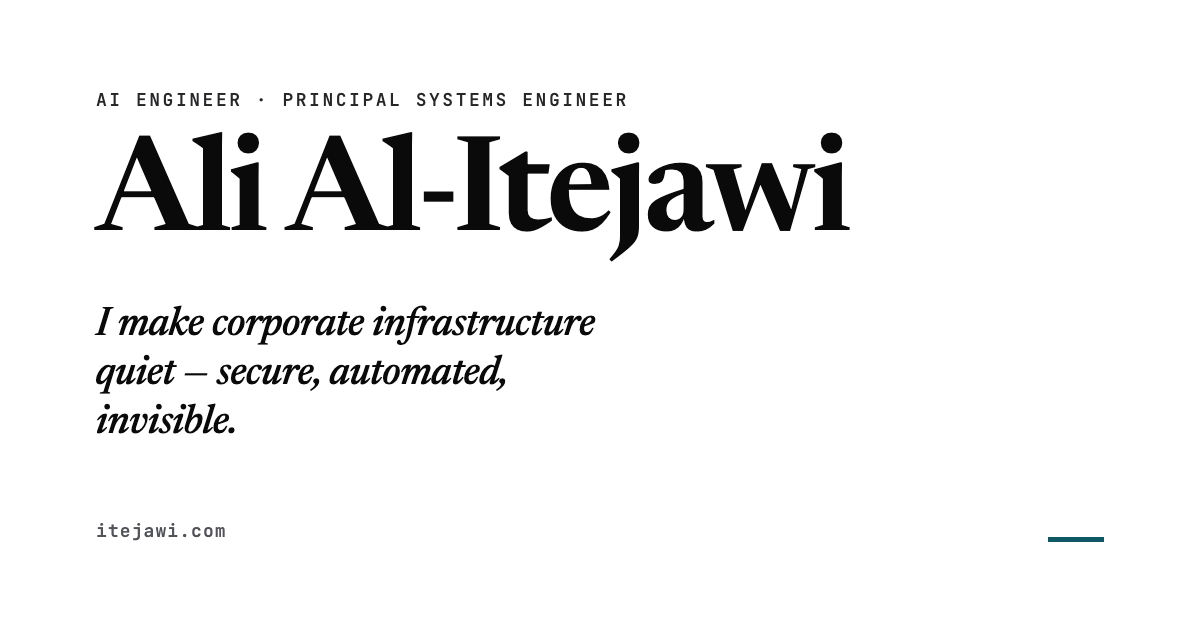
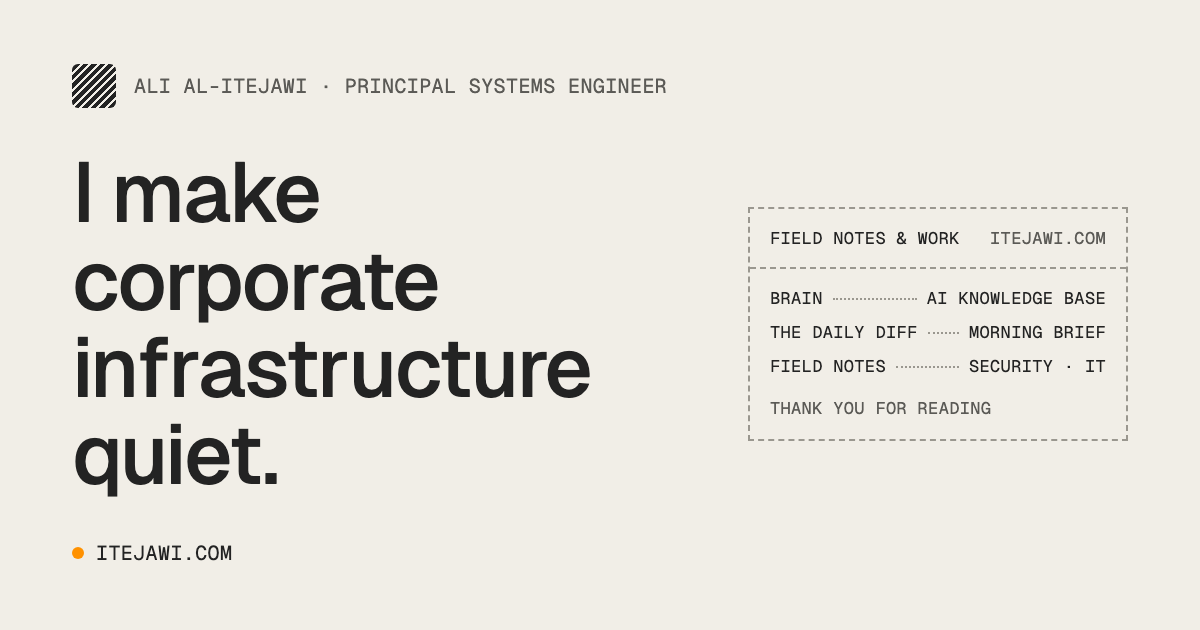
feat: new link-preview image; hide empty project image boxes
The preview image now matches the site design and is generated by
scripts/make-og.mjs from src/data/site.ts. Project tiles show an image area
only when a project has an image.

diff --git a/tests/build.test.ts b/tests/build.test.ts
@@ -248,3 +248,19 @@ test('llms.txt summarises the site from the same data as the pages', () => {
   expect(llms).not.toContain('FILL IN');
   expect(llms).not.toMatch(/\b20\d\d\b/);
 });
+
+test('no empty image boxes while site.showPlaceholders is false', () => {
+  for (const page of ['index.html', 'projects/index.html']) {
+    expect(readDist(page)).not.toContain('Image coming soon');
+    expect(loadDist(page)('.project-image')).toHaveLength(0);
+  }
+});
+
+test('link preview declares its size and alt text', () => {
+  const $ = loadDist('index.html');
+
+  expect($('meta[property="og:image"]').attr('content')).toBe('https://itejawi.com/assets/img/og.png');
+  expect($('meta[property="og:image:width"]').attr('content')).toBe('1200');
+  expect($('meta[property="og:image:height"]').attr('content')).toBe('630');
+  expect($('meta[property="og:image:alt"]').attr('content')).toContain('Ali Al-Itejawi');
+});
